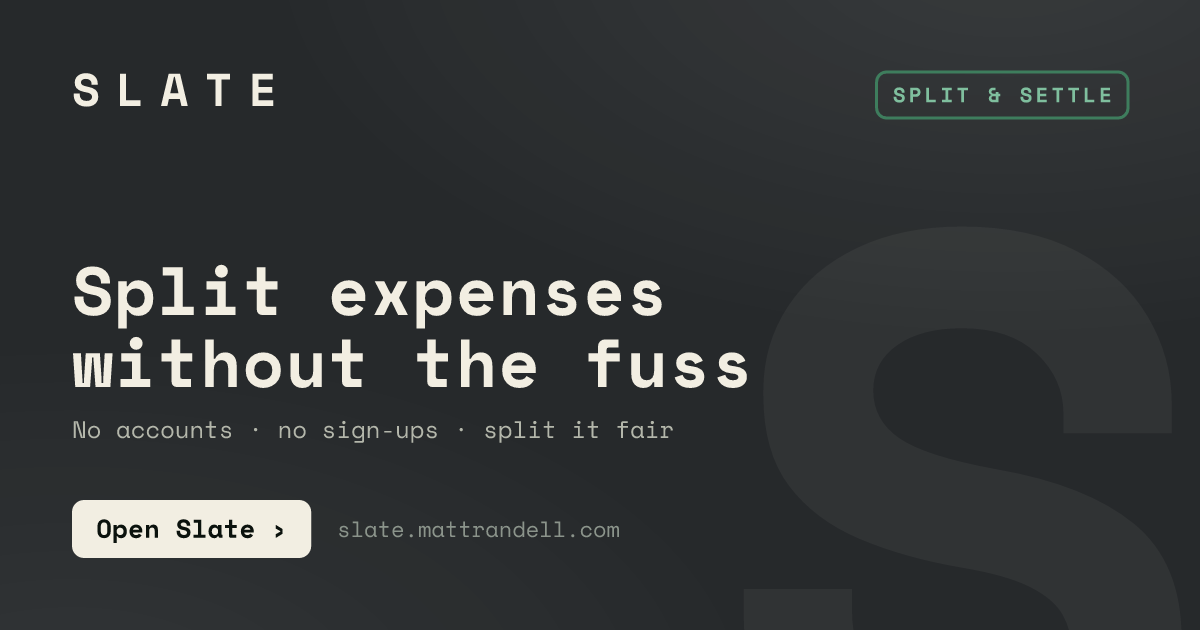
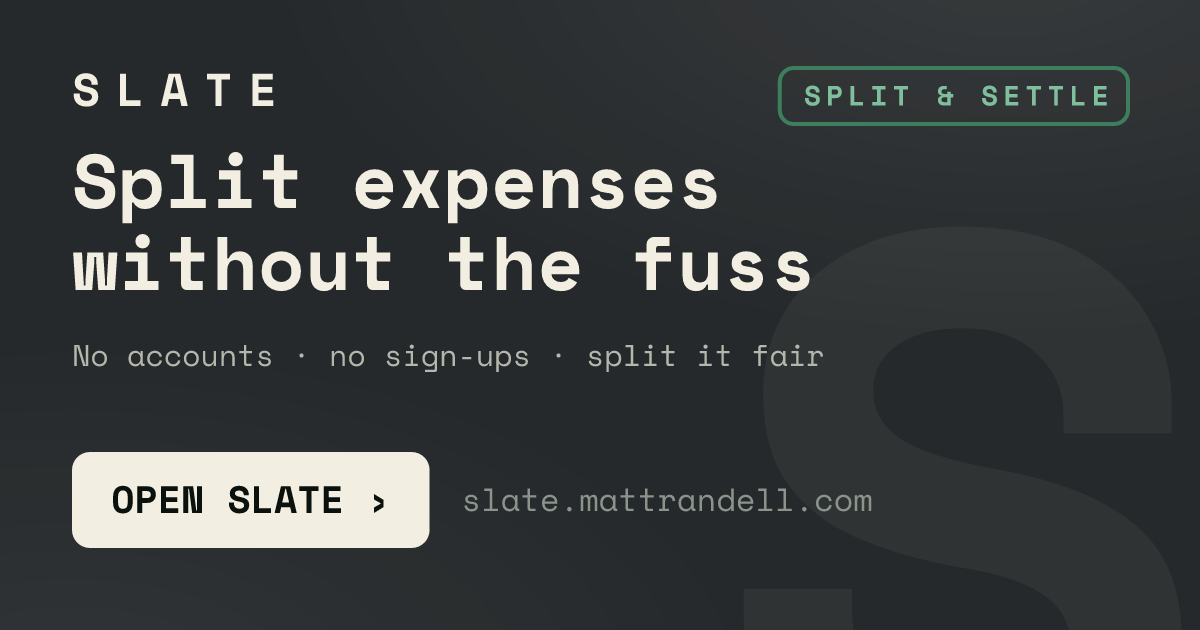
Slate: refine share-preview card layout and sizing
Anchor the group name high as the hero, and size the invite badge,
member avatar stack, count line, and CTA button to the design's
proportions (badge back to ~60% of the wordmark). Regenerate the
static og-card.png fallback.

diff --git a/slate/web/og/card.js b/slate/web/og/card.js
@@ -30,24 +30,25 @@ const escapeXml = (s) =>
 const runWidth = (text, size, ls = 0) =>
   text.length * ADV * size + Math.max(0, text.length - 1) * ls;
 
-/** A pill-shaped label with a rule border — the "You're invited" badge. */
-function badge(label, size = 21, ls = 3) {
-  const padX = 18;
-  const h = 46;
+/** A pill-shaped label with a rule border — the "You're invited" badge. Sized
+    to ~60% of the wordmark, matching the design's 9px-badge / 15px-wordmark ratio. */
+function badge(label, size = 28, ls = 5) {
+  const padX = 24;
+  const h = 56;
   const w = runWidth(label, size, ls) + padX * 2;
   const x = CW - PAD - w;
-  const y = PAD;
+  const y = PAD - 4;
   return `<g>
-    <rect x="${x}" y="${y}" width="${w}" height="${h}" rx="10" fill="none" stroke="${EMERALD_LINE}" stroke-width="3"/>
-    <text x="${x + w / 2}" y="${y + h / 2 + size * 0.35}" text-anchor="middle" font-family="Space Mono" font-weight="700" font-size="${size}" letter-spacing="${ls}" fill="${EMERALD}">${escapeXml(label)}</text>
+    <rect x="${x}" y="${y}" width="${w}" height="${h}" rx="14" fill="none" stroke="${EMERALD_LINE}" stroke-width="4"/>
+    <text x="${x + w / 2 + ls / 2}" y="${y + h / 2 + size * 0.34}" text-anchor="middle" font-family="Space Mono" font-weight="700" font-size="${size}" letter-spacing="${ls}" fill="${EMERALD}">${escapeXml(label)}</text>
   </g>`;
 }
 
 /** Overlapping row of member avatar tiles, capped with a +N overflow tile. */
 function memberStack(members, x, cy) {
-  const tile = 64;
-  const step = 46; // overlap
-  const rx = 15;
+  const tile = 76;
+  const step = 54; // overlap
+  const rx = 18;
   const max = 5;
   const shown = members.slice(0, max);
   const overflow = members.length - shown.length;
@@ -60,7 +61,7 @@ function memberStack(members, x, cy) {
   const y = cy - tile / 2;
   const tiles = cells.map((c, i) => {
     const tx = x + i * step;
-    const fs = c.label.length > 1 ? 22 : 30;
+    const fs = c.label.length > 1 ? 26 : 36;
     return `<g>
       <rect x="${tx}" y="${y}" width="${tile}" height="${tile}" rx="${rx}" fill="${c.fill}" stroke="${STROKE}" stroke-width="4"/>
       <text x="${tx + tile / 2}" y="${cy + fs * 0.34}" text-anchor="middle" font-family="Space Mono" font-weight="700" font-size="${fs}" fill="#FFFFFF">${escapeXml(c.label)}</text>
@@ -82,29 +83,31 @@ export function buildCardSvg(opts = {}) {
   const invite = Boolean(name);
 
   // Headline: the group name (fitted + truncated to one line) or the tagline.
+  // Anchored high, right under the wordmark row — the hero of the card.
+  const HEAD_MAX = 98;
   let headline = invite ? name.trim() : 'Split expenses\nwithout the fuss';
-  let headSize = 84;
+  let headSize = invite ? HEAD_MAX : 76;
   if (invite) {
     const maxW = CW - PAD * 2;
-    headSize = Math.min(84, Math.floor(maxW / (headline.length * ADV)));
-    if (headSize < 40) {
-      const fit = Math.max(1, Math.floor(maxW / (40 * ADV)) - 1);
+    headSize = Math.min(HEAD_MAX, Math.floor(maxW / (headline.length * ADV)));
+    if (headSize < 46) {
+      const fit = Math.max(1, Math.floor(maxW / (46 * ADV)) - 1);
       headline = [...headline].slice(0, fit).join('').trimEnd() + '…';
-      headSize = 40;
+      headSize = 46;
     }
   }
   const headLines = headline.split('\n');
-  const headLineH = (invite ? headSize : 68) * 1.06;
-  const headTop = 300 - ((headLines.length - 1) * headLineH) / 2;
+  const headLineH = headSize * 1.08;
+  const headBaseline = invite ? 236 : 208;
   const headSvg = headLines
     .map(
       (ln, i) =>
-        `<text x="${PAD}" y="${headTop + i * headLineH + (invite ? headSize : 68) * 0.75}" font-family="Space Mono" font-weight="700" font-size="${invite ? headSize : 68}" letter-spacing="1" fill="${CHALK}">${escapeXml(ln)}</text>`,
+        `<text x="${PAD}" y="${headBaseline + i * headLineH}" font-family="Space Mono" font-weight="700" font-size="${headSize}" fill="${CHALK}">${escapeXml(ln)}</text>`,
     )
     .join('');
 
   // Sub-line: member stack + count for a rostered invite, tagline otherwise.
-  const stackCy = 430;
+  const stackCy = 356;
   const count = memberCount ?? members.length;
   let stackSvg = '';
   let subText;
@@ -112,27 +115,27 @@ export function buildCardSvg(opts = {}) {
   if (invite && members.length > 0) {
     const stack = memberStack(members, PAD, stackCy);
     stackSvg = stack.svg;
-    subX = stack.endX + 22;
+    subX = stack.endX + 26;
     subText = `${count} ${count === 1 ? 'person' : 'people'} in · split fair, settle easy`;
   } else if (invite) {
     subText = 'Split fair · settle easy · no sign-up';
   } else {
     subText = 'No accounts · no sign-ups · split it fair';
   }
-  const subSvg = `<text x="${subX}" y="${stackCy + 8}" font-family="Space Mono" font-size="24" fill="${CHALKMUT}">${escapeXml(subText)}</text>`;
+  const subSvg = `<text x="${subX}" y="${stackCy + 10}" font-family="Space Mono" font-size="30" fill="${CHALKMUT}">${escapeXml(subText)}</text>`;
 
-  // CTA pill + footnote along the bottom.
-  const cta = invite ? 'Tap to join ›' : 'Open Slate ›';
-  const ctaSize = 26;
-  const ctaPadX = 26;
-  const ctaH = 58;
+  // CTA button + footnote along the bottom — the button is the loud element.
+  const cta = invite ? 'TAP TO JOIN ›' : 'OPEN SLATE ›';
+  const ctaSize = 38;
+  const ctaPadX = 42;
+  const ctaH = 96;
   const ctaW = runWidth(cta, ctaSize) + ctaPadX * 2;
-  const ctaY = CH - PAD - ctaH;
+  const ctaY = 452;
   const footnote = invite ? 'No account · no sign-up' : 'slate.mattrandell.com';
   const ctaSvg = `<g>
-    <rect x="${PAD}" y="${ctaY}" width="${ctaW}" height="${ctaH}" rx="12" fill="${CHALK}"/>
+    <rect x="${PAD}" y="${ctaY}" width="${ctaW}" height="${ctaH}" rx="18" fill="${CHALK}"/>
     <text x="${PAD + ctaW / 2}" y="${ctaY + ctaH / 2 + ctaSize * 0.34}" text-anchor="middle" font-family="Space Mono" font-weight="700" font-size="${ctaSize}" fill="${INK}">${escapeXml(cta)}</text>
-    <text x="${PAD + ctaW + 26}" y="${ctaY + ctaH / 2 + 8}" font-family="Space Mono" font-size="22" fill="${FAINT}">${escapeXml(footnote)}</text>
+    <text x="${PAD + ctaW + 32}" y="${ctaY + ctaH / 2 + 11}" font-family="Space Mono" font-size="32" fill="${FAINT}">${escapeXml(footnote)}</text>
   </g>`;
 
   return `<svg width="${CW}" height="${CH}" viewBox="0 0 ${CW} ${CH}" xmlns="http://www.w3.org/2000/svg">
